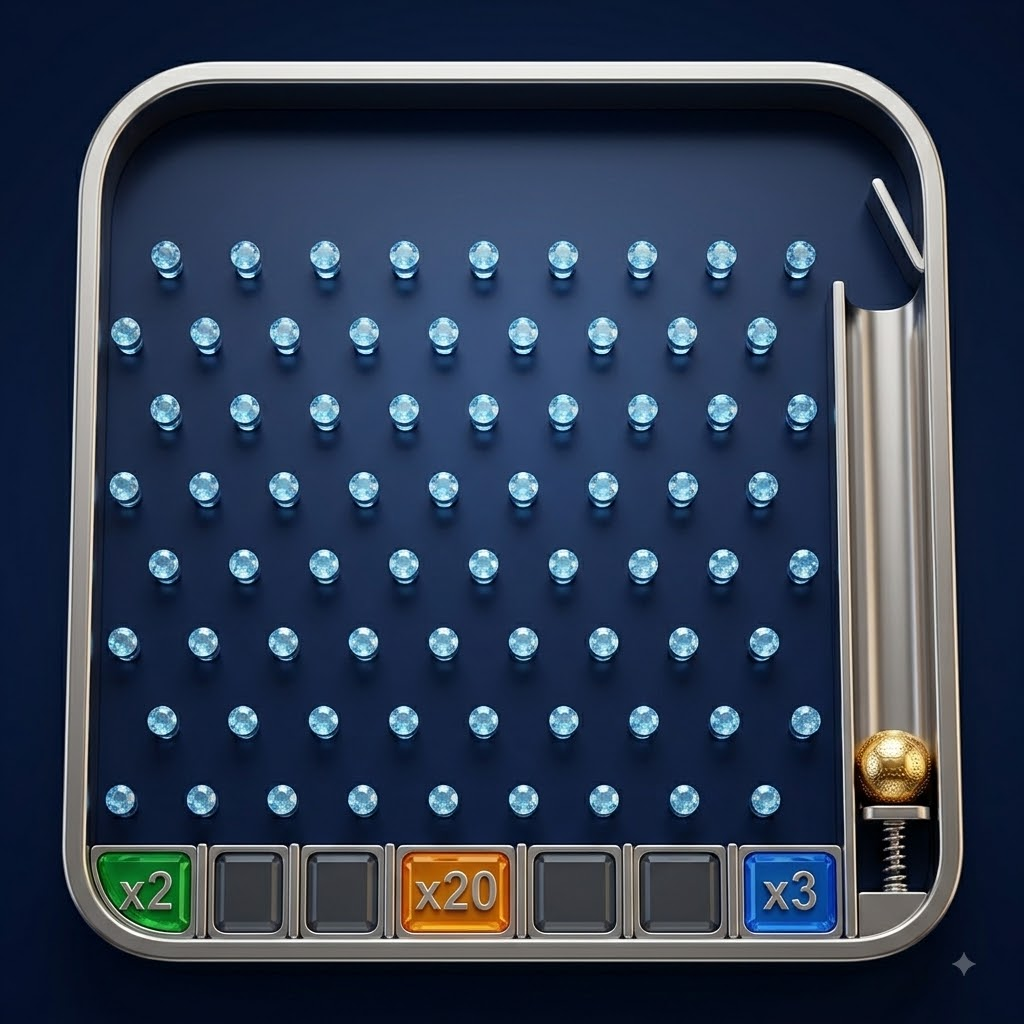
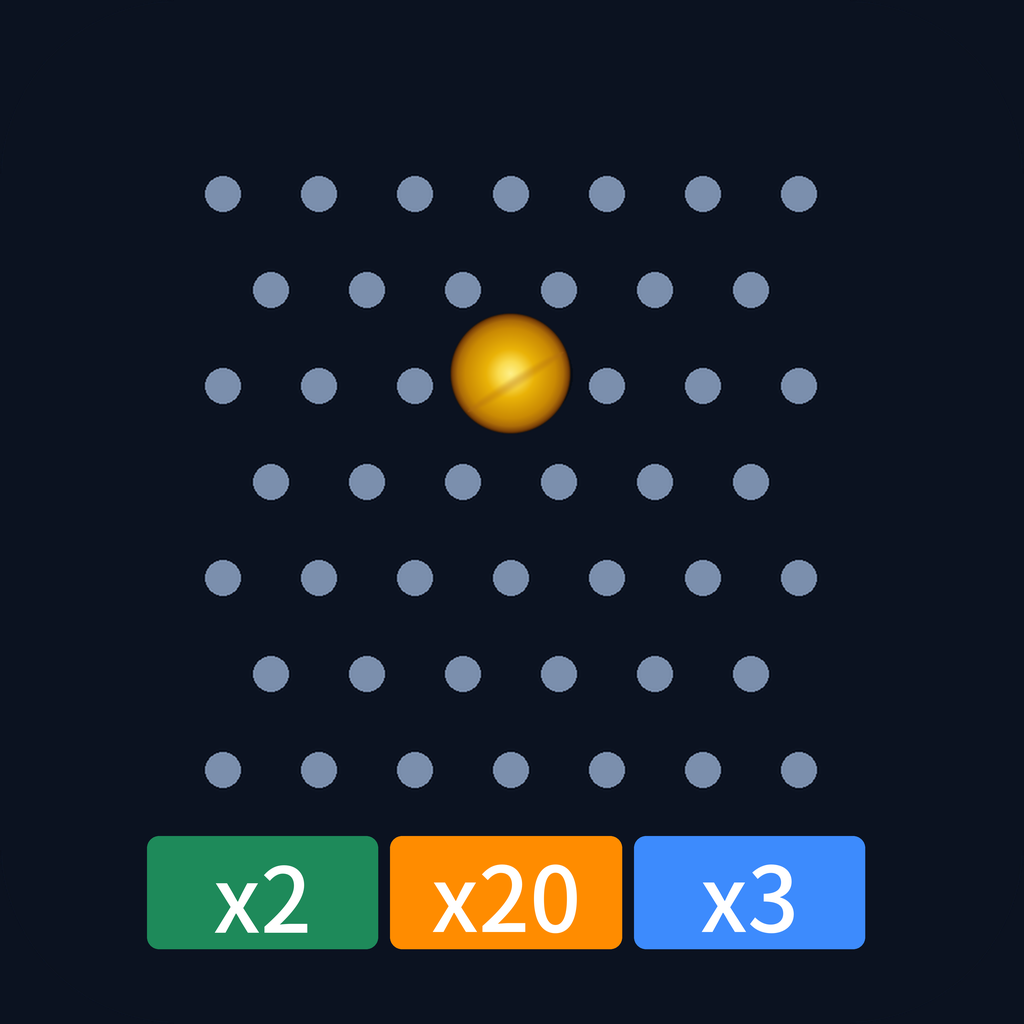
换应用图标：照老版初版骨架重画，球/钉子/槽全部用游戏真值
新版与老版**桌面显示名相同**（用户定），只能靠图标区分。

设计参数（全部从代码里取，不是随手画的）：
- 骨架照老版初版图标（2026-07-28 Initial commit），几何逐像素量过
- 球：text.py::ball_texture() 的真实配方（9 段色标 + 边缘暗环 + 焦糖色猫眼带；
  ⚠ 游戏里高光点是删掉的，这里也不加）
- 钉子：COL_PEG=#7b8fad 纯色实心圆，半径 = 间距 x 0.121 x 1.5
  （游戏里钉子没有渐变也没有高光——前几版加的渐变是画错了）
- 槽：slot_color() 品质色 + "x%d" 文字 + 宽高比 1.76（宽扁），文字 90px
- 不碰球：钉心距 > 球半径 + 钉半径 + 6px（判据随钉半径变）

图标是满幅正方形、无圆角、不透明——圆角交给安卓系统裁。

⚠ 本轮同一个坑踩了两次：改槽边时在旧像素上打补丁，两次都漏掉旧黑底边(y950~959)，
在四角留下暗色小方块。教训：要改形状就整块重画，先清空再画。
回退：temp/_bak_icon/ 有原图标两版，生成器在 temp/make_icon_v3.py。

diff --git a/changelog/2026-09-19.md b/changelog/2026-09-19.md
@@ -753,6 +753,40 @@ CPU：8 核　1+3+4
 
 ---
 
+## 25. 换应用图标 —— 与老版桌面同名，只能靠图标区分
+
+- **日期**：2026-09-19 ｜ **类型**：资源替换（用户定稿） ｜ **对账影响**：无（`icon.png` 没有门禁盯着） ｜ **门禁代价**：无
+- **验证**：`pack_scope.py` 绿；`git status` 只有 `icon.png` 一处改动
+
+**为什么要换**：新版与老版的**桌面显示名相同**（都叫「跳跳的弹珠机」，用户定的），
+所以同一台手机上只能靠**图标**区分。老版那个图标是 3D 渲染级的（711 KB），
+新版这个是**代码画的扁平版**（65.7 KB）。
+
+**设计出处与参数**（全部照游戏真值，不是随手画的）：
+- 骨架：老版**初版图标**（`temp/old_icons/initial_2026-07-28.png`，2026-07-28 Initial commit）——
+  错位点阵 + 金球 + 底部倍率槽。它的几何是**逐像素量的**：列距 72、行距 72、9×9、点半径 15。
+- **球**：`danzhu/ui/text.py::ball_texture()` 的**真实配方** —— 9 段色标
+  （0.00 `(254,240,138)` → 0.99 `(36,16,2)`）+ 边缘暗环 `RIM_K=0.74` + 焦糖色猫眼带
+  （-32°、偏右下 0.08d、色 `(178,108,22)`）。⚠ 游戏里**高光点是删掉的**（源注释「高光已删」），
+  所以这里也不加。
+- **钉子**：`COL_PEG = #7b8fad` 的**纯色实心圆**，半径 = 间距 × (PEG_R/PEG_SX=0.121) × 1.5。
+  ⚠ 游戏里钉子就是纯色圆，**没有渐变也没有高光** —— 我前几版加的渐变是画错了。
+- **槽**：`slot_color()` 的品质色 + `"x%d" % m` 文字（`slot_text_tex`）+ `slot_txt()` 的黑白字规则；
+  宽高比 1.76（**宽扁**）。文字 90px。
+- **不碰球**：钉心距 > 球半径 + 钉半径 + 6px（判据随钉半径变，不是写死的）。
+
+**⚠ 图标是满幅正方形、无圆角、不透明** —— 圆角/圆形由**安卓系统自己裁**。
+自己画圆角会被系统二次裁切；四角透明会被当成"没有内容"。
+
+**回退**：`temp/_bak_icon/` 里有原图标两个版本（`icon_original_1024.png` /
+`icon_before_v3_20260919.png`），生成器在 `temp/make_icon_v3.py` + `temp/make_icon_v2.py`。
+
+⚠ **本轮踩的坑（同一个坑踩了两次）**：改槽的上下边时，我**在旧像素上打补丁**
+（第一版按行填矩形、第二版只重画到 y=949），两次都漏掉旧槽的黑底边（在 y=950~959），
+在四角留下暗色小方块。⇒ **要改一个形状就整块重画**：先清空整片区域，再画新的。
+
+---
+
 # 这一天**没做**的事（免得下次有人以为做了）
 
 | 事项 | 状态 |
